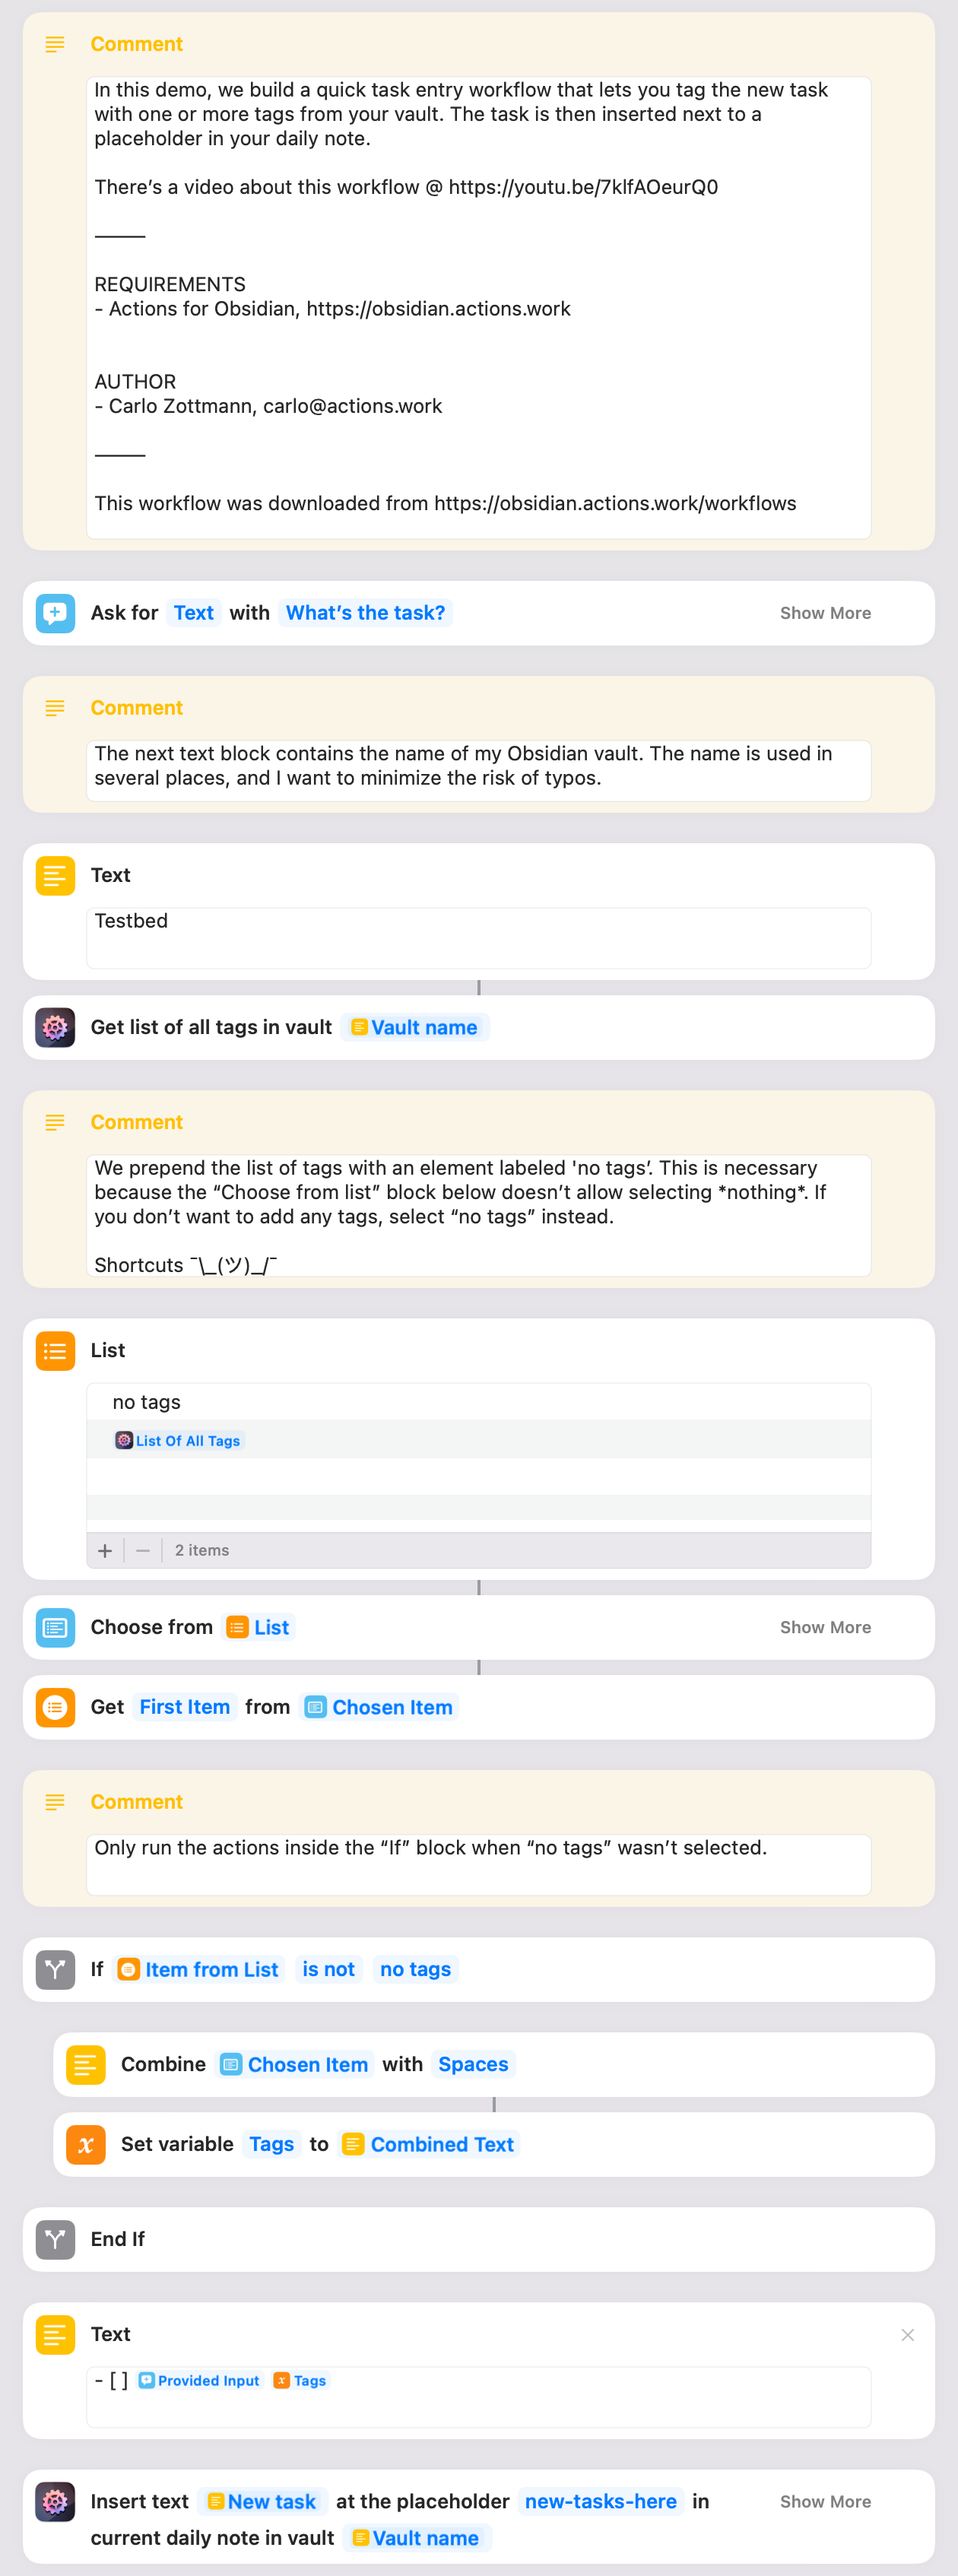
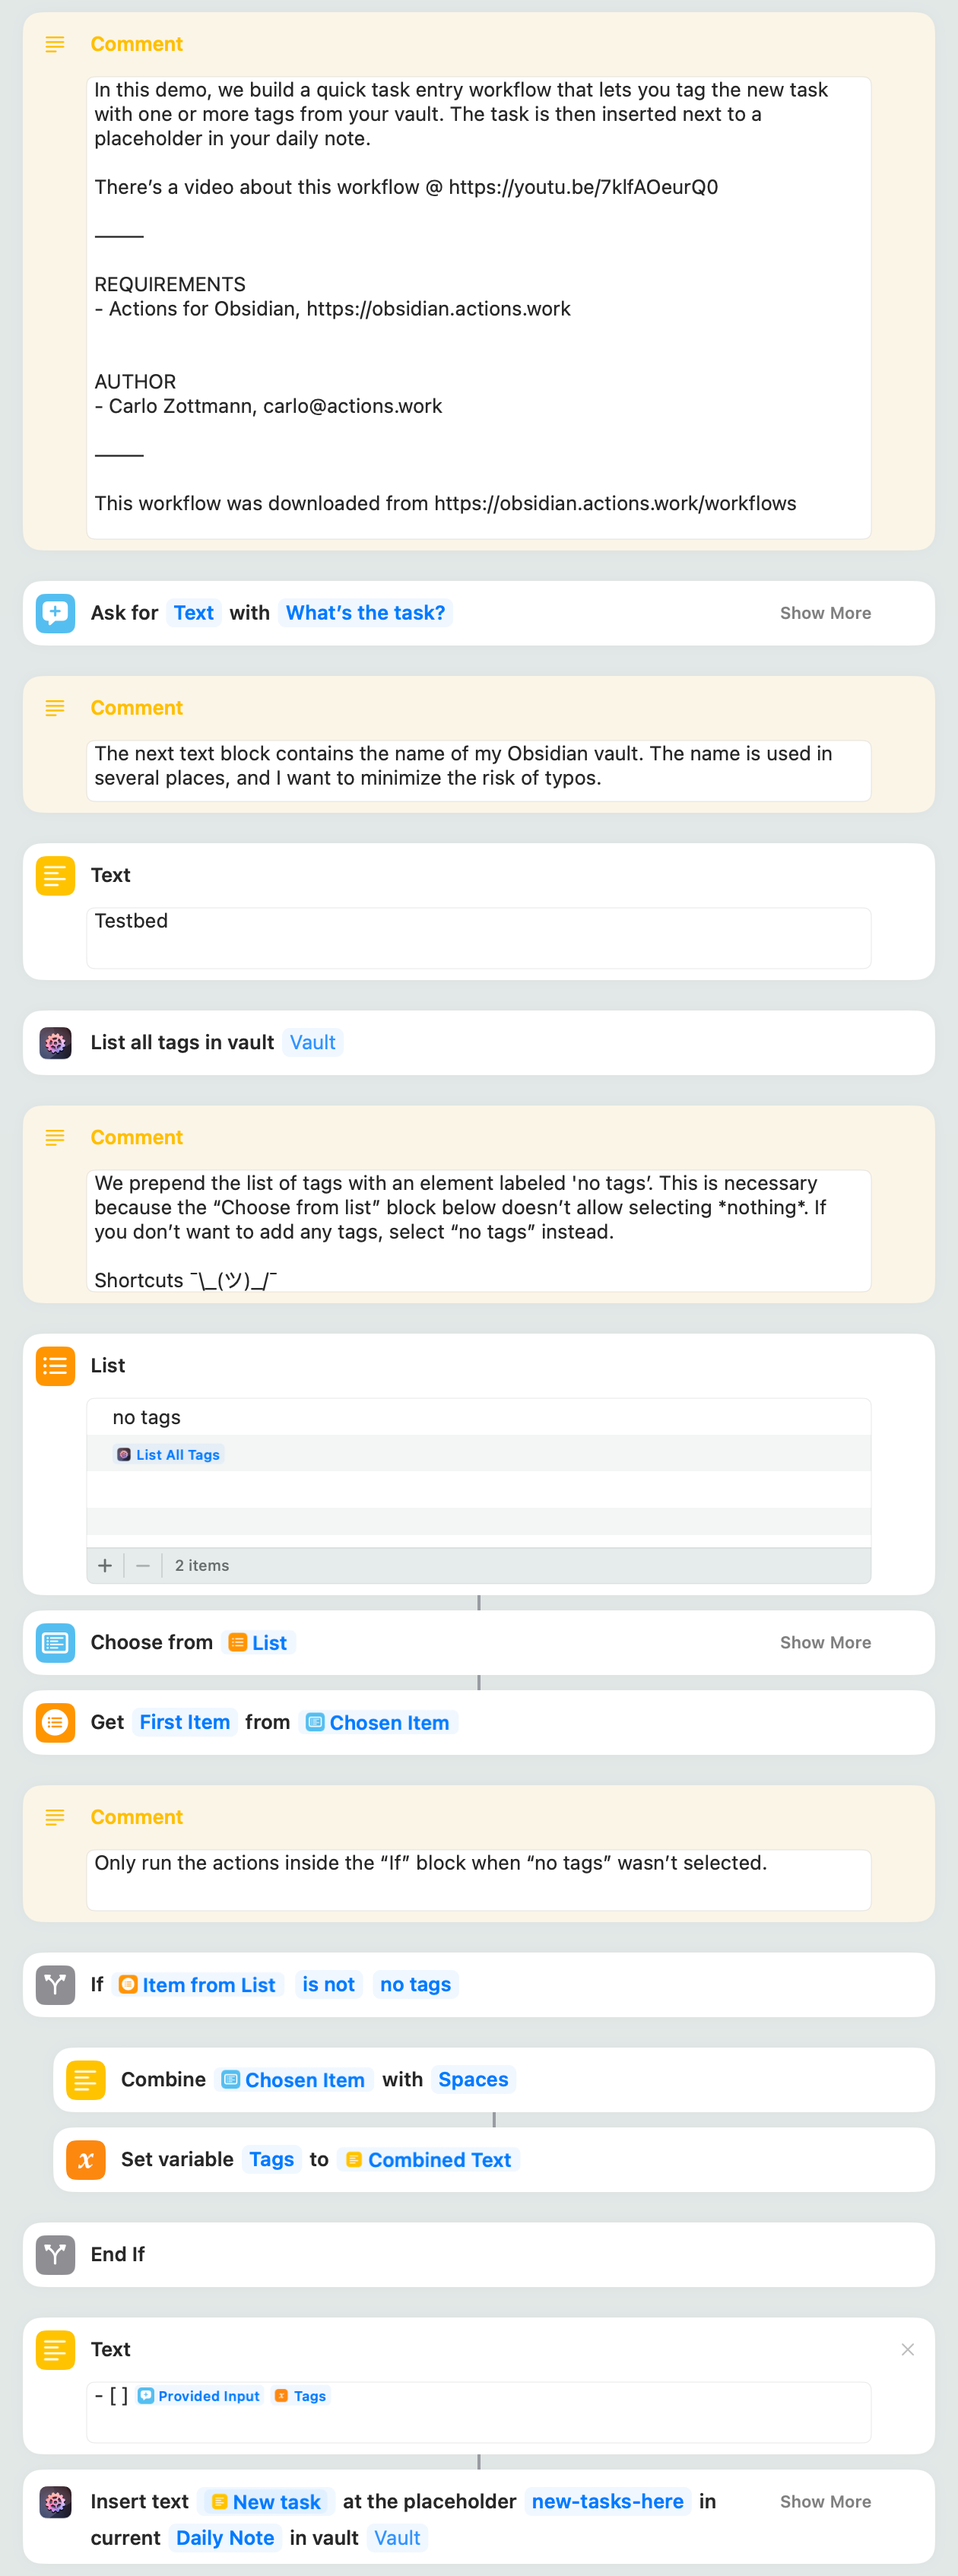
[CHG] Updates workflow for AFO 2024.1

Changed region(s): [[0.031, 0.3719, 0.9905, 0.9917]]

diff --git a/Quick tasks entry with tags picker/README.md b/Quick tasks entry with tags picker/README.md
@@ -26,6 +26,10 @@ This workflow is part of the [**Actions for Obsidian** Workflow Library](https:/
 
 ## Workflow history / Change log
 
+### 2024-02-27
+
+Adjusted vault handling to work with AFO 2024.1.
+
 ### 2023-03-21
 
-- First version.
+First version.
